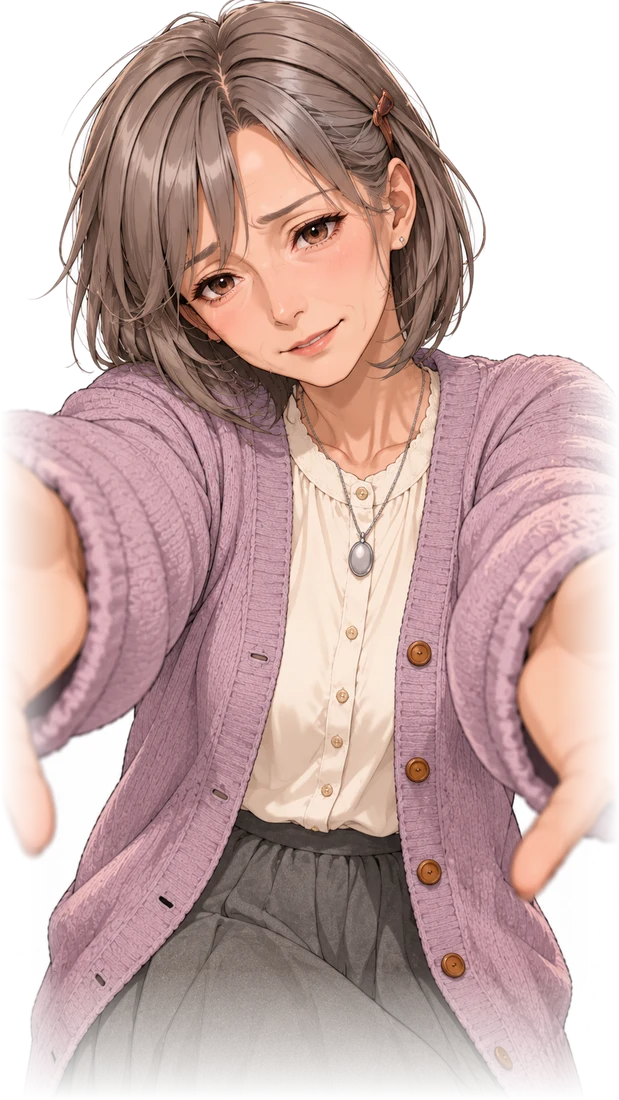
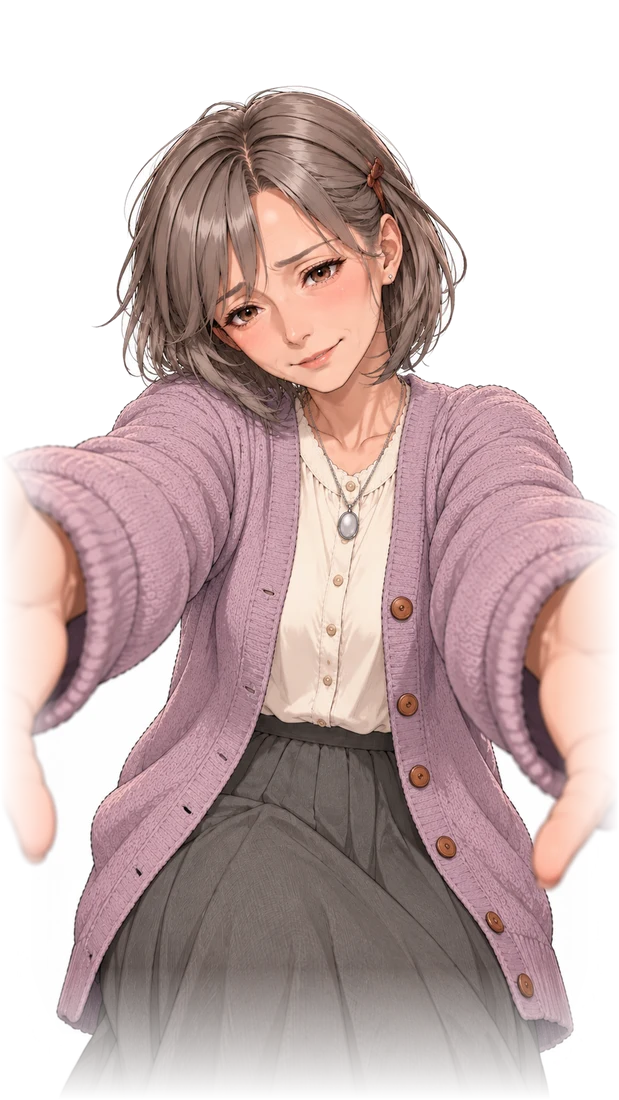
Margaret hug: new open-arms picture; the shoulder one a little further away
Claude-Session: https://claude.ai/code/session_01PiQbiDdHzkNFQqS3tJ9L5K

diff --git a/js/margaret-story.js b/js/margaret-story.js
@@ -135,7 +135,7 @@
       M('sad', 'I\'m sorry. I\'m so sorry. That wasn\'t you. None of that was you.', 'آسفة. آسفة مرة. ما كان أنت. ولا شي منه كان أنت.'),
       M('worry', 'If you want to go, I\'ll understand. I\'ll help you carry your things. I just didn\'t want you to go hungry.', 'إذا {تبي تروح|تبين تروحين}، بفهم. بساعدك {تشيل|تشيلين} أغراضك. بس ما بغيتك {تروح جوعان|تروحين جوعانة}.'),
       { menu: [
-        { t: T('Take the tray. "I\'m not going anywhere."', '{خذ|خذي} الصينية. «ما راح أروح مكان.»'), cls: 'main', then: [{ mini: 'cg', src: 'img/fx/marg_hug2.webp', cap: T('"Thank you," she says, into your shoulder. "Thank you for staying."', '«شكراً،» تقولها على كتفك. «شكراً إنك {بقيت|بقيتي}.»') }, N1('She sits on the end of the bed while you eat. She doesn\'t talk. For the first time since you came, she looks like she is breathing all the way in.', 'تجلس على طرف السرير وأنت {تاكل|تاكلين}. ما تتكلم. ولأول مرة من جيت، تبان كأنها تتنفس للآخر.'), st => { kind(st, 'sorry'); tenseUp(st, -1); return null; }] },
+        { t: T('Take the tray. "I\'m not going anywhere."', '{خذ|خذي} الصينية. «ما راح أروح مكان.»'), cls: 'main', then: [{ mini: 'cg', src: 'img/fx/marg_hug2.webp', h: 92, cap: T('"Thank you," she says, into your shoulder. "Thank you for staying."', '«شكراً،» تقولها على كتفك. «شكراً إنك {بقيت|بقيتي}.»') }, N1('She sits on the end of the bed while you eat. She doesn\'t talk. For the first time since you came, she looks like she is breathing all the way in.', 'تجلس على طرف السرير وأنت {تاكل|تاكلين}. ما تتكلم. ولأول مرة من جيت، تبان كأنها تتنفس للآخر.'), st => { kind(st, 'sorry'); tenseUp(st, -1); return null; }] },
         { t: T('Take the tray, and say nothing', '{خذ|خذي} الصينية، ولا {تقول|تقولين} شي'), then: [N1('She waits. You eat. She goes. The door stays a little open behind her, the way you\'d leave it for a child.', 'تنتظر. {تاكل|تاكلين}. تروح. والباب يبقى مفتوح شوي وراها، مثل ما تخليه لطفل.')] }
       ] }]
   };

diff --git a/js/margaret-deep.js b/js/margaret-deep.js
@@ -35,6 +35,7 @@
   GAME.MINI.cg = function (panel, done, st) {
     panel.innerHTML = '';
     const box = el('div', 'cp md-cg'); box.innerHTML = `<i style="background-image:url(${st.src})"></i><img src="${st.src}" alt="">`;
+    if (st.h) { const im = box.querySelector('img'); im.style.height = st.h + '%'; im.style.marginBottom = '0'; }
     if (st.cap) box.appendChild(el('p', '', tx(st.cap)));
     $('stage').appendChild(box); $('stage').classList.add('cg-on'); requestAnimationFrame(() => box.classList.add('on'));
     const alt = el('button', 'opt main cp-alt', tx(T('Go on', '{كمل|كملي}'))); alt.type = 'button'; panel.appendChild(alt);
